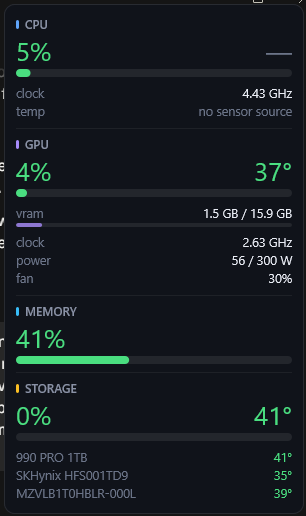
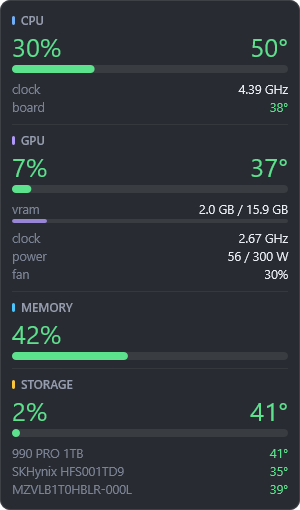
Retake the panel screenshot
A clean matte of the live panel: real readings from every source, transparent
rounded corners and the panel's own opacity, nothing from the desktop behind it.

Changed region(s): [[0.0, 0.0, 1.0, 1.0], [0.39, 0.6765, 0.45, 0.7059], [0.93, 0.6765, 0.96, 0.7059]]

diff --git a/README.md b/README.md
@@ -24,7 +24,7 @@ toggles it with `Win+Alt+O`. Think of the Game Bar's performance widget, but
 permanent, readable from across the room, and with real sensor data.
 
 <p align="center">
-  <img src="./docs/panel.png" width="306" alt="The Vitals panel showing CPU, GPU, memory and storage readings">
+  <img src="./docs/panel.png" width="300" alt="The Vitals panel showing CPU, GPU, memory and storage readings">
 </p>
 
 - **CPU**: load, real turbo clock, package temperature, and the mainboard
